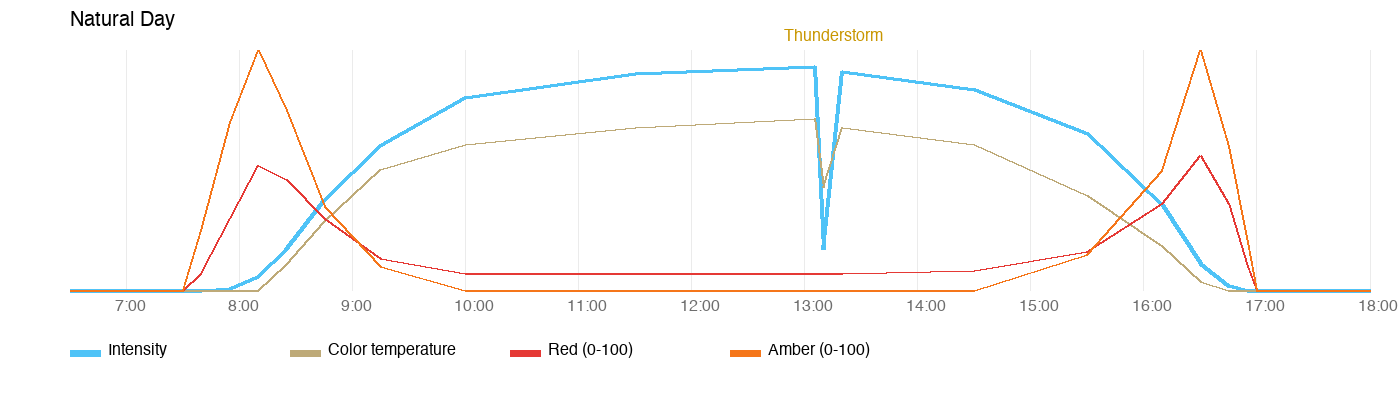
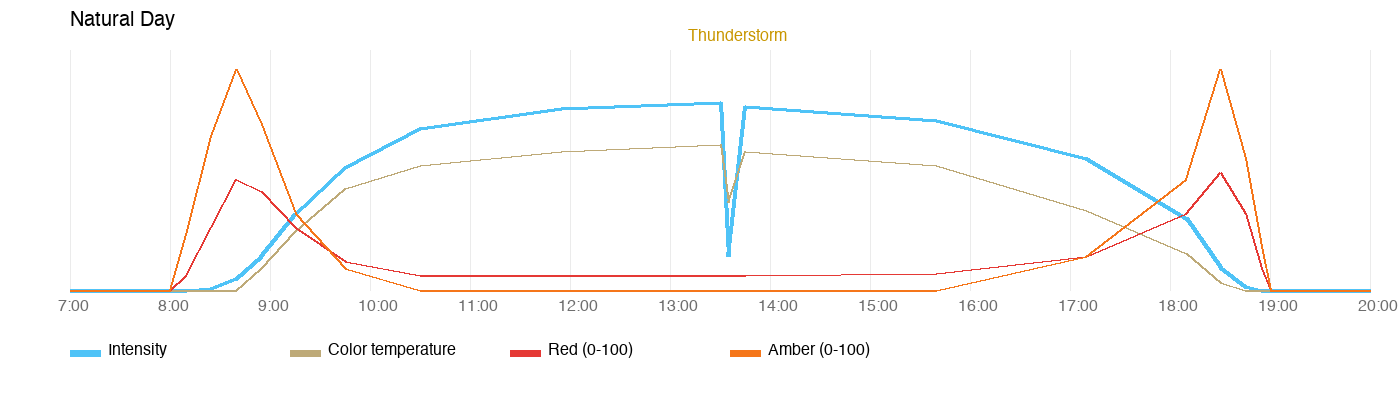
Natural Day: run from 08:00 to 19:00 with the same daily light amount

diff --git a/scripts/natural_day.py b/scripts/natural_day.py
@@ -1,8 +1,8 @@
 """Generate the "Natural Day" example program (programs/natural_day.json).
 
-Frame and daily light amounts are taken from a reference program (the dongle's
-"Default" program, dtype 106 response): light from 07:30 to 17:00, each channel
-scaled so its daily amount matches the reference.
+Daily light amounts are taken from a reference program (a dtype 106 response):
+each channel is scaled so its daily amount matches the reference. The day runs
+from DAY_START to DAY_END (see ANCHORS for how the template is placed).
 
 Usage: python scripts/natural_day.py tests/fixtures/dtype_106_pid3.json programs
 """
@@ -12,6 +12,9 @@ import sys
 from itertools import pairwise
 from pathlib import Path
 
+DAY_START, DAY_END = "08:00", "19:00"
+
+# Relative shape on a 07:30-17:00 template day.
 # (hh:mm, intensity 0-1, color temperature 0-1, red 0-1, amber 0-1, thunderstorm)
 SHAPE = [
     ("07:30", 0.00, 0.00, 0.00, 0.00, False),  # night
@@ -24,7 +27,7 @@ SHAPE = [
     ("10:00", 0.86, 0.85, 0.10, 0.00, False),
     ("11:30", 0.97, 0.95, 0.10, 0.00, False),
     ("13:05", 1.00, 1.00, 0.10, 0.00, False),  # zenith
-    ("13:10", 0.18, 0.60, 0.10, 0.00, True),  # thunderstorm (dongle effect, 5 min)
+    ("13:10", 0.18, 0.60, 0.10, 0.00, True),  # thunderstorm (dongle effect, 5 min after zenith)
     ("13:20", 0.98, 0.95, 0.10, 0.00, False),  # clears up
     ("14:30", 0.90, 0.85, 0.12, 0.00, False),
     ("15:30", 0.70, 0.55, 0.25, 0.15, False),  # afternoon, warmer
@@ -44,6 +47,38 @@ def minutes(hhmm: str) -> int:
     return hours * 60 + mins
 
 
+# Template time -> target time anchors; times in between are interpolated linearly
+# (rounded to 5 minutes). Sunrise and sunset keep their length, the zenith
+# (and the storm right after it) moves to the middle of the day.
+ANCHORS = [
+    ("07:30", DAY_START),
+    ("08:45", "+75"),  # end of sunrise: 75 min after the start
+    ("13:05", "mid"),  # zenith
+    ("16:10", "-50"),  # start of sunset: 50 min before the end
+    ("17:00", DAY_END),
+]
+
+
+def place(hhmm: str) -> int:
+    """Map a template time to the configured day (minutes after midnight)."""
+    start, end = minutes(DAY_START), minutes(DAY_END)
+
+    def target(spec: str) -> int:
+        if spec == "mid":
+            return (start + end) // 2
+        if spec[0] in "+-":
+            return (start if spec[0] == "+" else end) + int(spec)
+        return minutes(spec)
+
+    anchors = [(minutes(a), target(b)) for a, b in ANCHORS]
+    t = minutes(hhmm)
+    for (a0, b0), (a1, b1) in pairwise(anchors):
+        if a0 <= t <= a1:
+            exact = b0 + (t - a0) * (b1 - b0) / (a1 - a0)
+            return round(exact) if t in (a0, a1) else round(exact / 5) * 5
+    raise ValueError(hhmm)
+
+
 def integral(points: list[dict], ch: int) -> float:
     """Daily amount of a channel (raw value x minutes, linear between points)."""
     pts = sorted(points, key=lambda p: p["minutes"])
@@ -53,7 +88,13 @@ def integral(points: list[dict], ch: int) -> float:
 
 
 def build(reference: list[dict]) -> dict:
-    relative = [{"minutes": minutes(t), "UI": [i, c, 0, r, a]} for t, i, c, r, a, _ in SHAPE]
+    relative = []
+    for t, i, c, r, a, storm in SHAPE:
+        # keep the storm's distance to the point before it, and the clearing after it
+        at = relative[-1]["minutes"] + 5 if storm else place(t)
+        if relative and SHAPE[len(relative) - 1][5]:
+            at = relative[-1]["minutes"] + 10
+        relative.append({"minutes": at, "UI": [i, c, 0, r, a]})
     scale = {
         ch: min(
             integral(reference, ch) / integral(relative, ch),

diff --git a/scripts/plot_program.py b/scripts/plot_program.py
@@ -11,7 +11,7 @@ from pathlib import Path
 from PIL import Image, ImageDraw, ImageFont
 
 W, PANEL_H, LEFT, RIGHT, TOP = 1400, 330, 70, 30, 50
-START, END = 6 * 60 + 30, 18 * 60  # visible time window in minutes
+START, END = 7 * 60, 20 * 60  # visible time window in minutes
 SERIES = [  # channel, max raw value, color, label, line width
     (0, 255, (79, 195, 247), "Intensity", 4),
     (1, 255, (190, 170, 120), "Color temperature", 2),
@@ -38,7 +38,7 @@ def draw_panel(draw, top: int, points: list[dict], title: str, font, small) -> N
         return top + TOP + (1 - value / cap) * (PANEL_H - TOP - 40)
 
     draw.text((LEFT, top + 10), title, fill="black", font=font)
-    for hour in range(7, 19):
+    for hour in range(7, 21):
         x = x_pos(hour * 60)
         draw.line([(x, top + TOP), (x, top + PANEL_H - 40)], fill=(235, 235, 235))
         draw.text((x - 12, top + PANEL_H - 32), f"{hour}:00", fill=(110, 110, 110), font=small)

diff --git a/README.md b/README.md
@@ -92,24 +92,24 @@ automatically through the light's device.
 ## Example program: Natural Day
 
 [`programs/natural_day.json`](programs/natural_day.json) is a suggestion for a
-natural daily curve for Tuna Sun: light from 07:30 to 17:00 with a daily light
+natural daily curve for Tuna Sun: light from 08:00 to 19:00 with a daily light
 amount of about 6 hours at full intensity, shaped like a real day.
 
 ![Natural Day](docs/images/natural_day.png)
 
 | Time | What happens |
 |---|---|
-| 07:30–08:10 | Dawn: amber glows first, red joins; sunrise peak at 08:10 in deep orange (amber 100, red 52) with almost no intensity |
-| 08:10–10:00 | Morning: amber and red fade, intensity rises smoothly, color temperature moves from warm to neutral |
-| 10:00–13:05 | Midday: slow rise to the zenith at 13:05 (intensity 93 %, color temperature 71 %) |
-| 13:10 | Thunderstorm: the dongle's own storm effect for 5 minutes, then it clears up |
-| 14:30–16:30 | Afternoon: gradually warmer and dimmer; sunset glow at 16:30 (amber 100, red 56) |
-| 16:30–17:00 | Dusk: red and amber fade out, night from 17:00 |
+| 08:00–08:40 | Dawn: amber glows first, red joins; sunrise peak at 08:40 in deep orange (amber 92, red 46) with almost no intensity |
+| 08:40–10:30 | Morning: amber and red fade, intensity rises smoothly, color temperature moves from warm to neutral |
+| 10:30–13:30 | Midday: slow rise to the zenith at 13:30 (intensity 78 %, color temperature 61 %) |
+| 13:35 | Thunderstorm: the dongle's own storm effect for 5 minutes, then it clears up |
+| 15:40–18:30 | Afternoon: gradually warmer and dimmer; sunset glow at 18:30 (amber 92, red 49) |
+| 18:30–19:00 | Dusk: red and amber fade out, night from 19:00 |
 
 The file uses the dongle's program format (points with `minutes`, `UI`, `eid`,
 `duration`, `freq`). It cannot be uploaded from Home Assistant yet. Adapt it with
-`scripts/natural_day.py` (the shape table at the top; channel amounts are scaled to
-a reference program) and draw it with `scripts/plot_program.py`.
+`scripts/natural_day.py` (day start/end and the shape table at the top; channel
+amounts are scaled to a reference program) and draw it with `scripts/plot_program.py`.
 
 ## Roadmap
 
